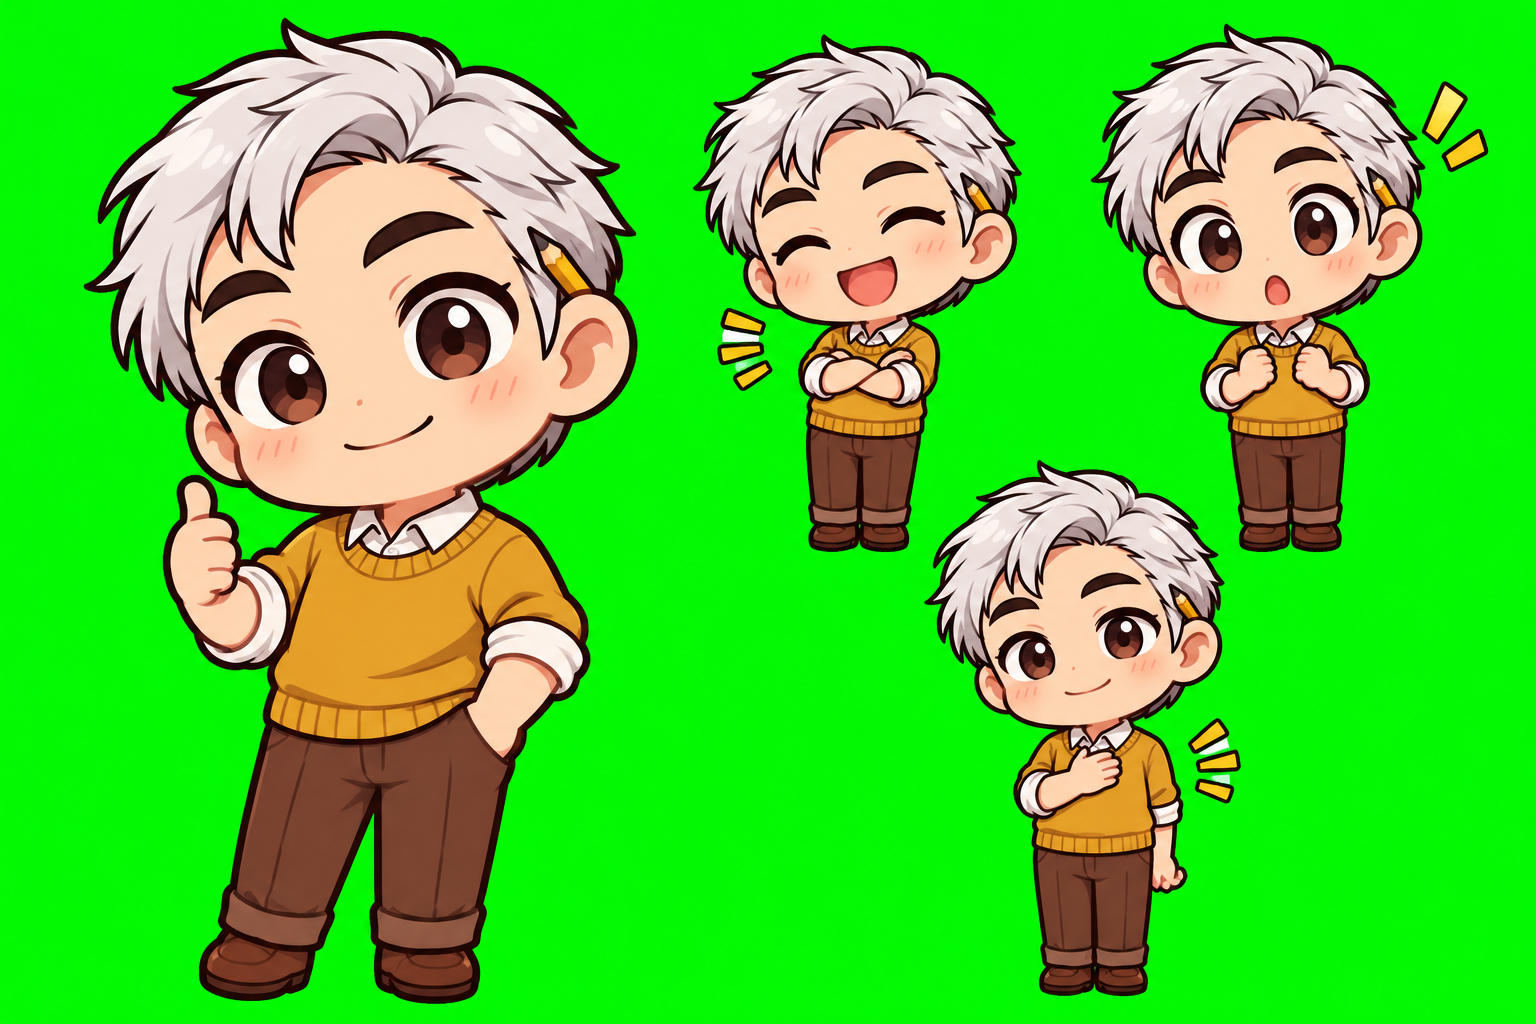
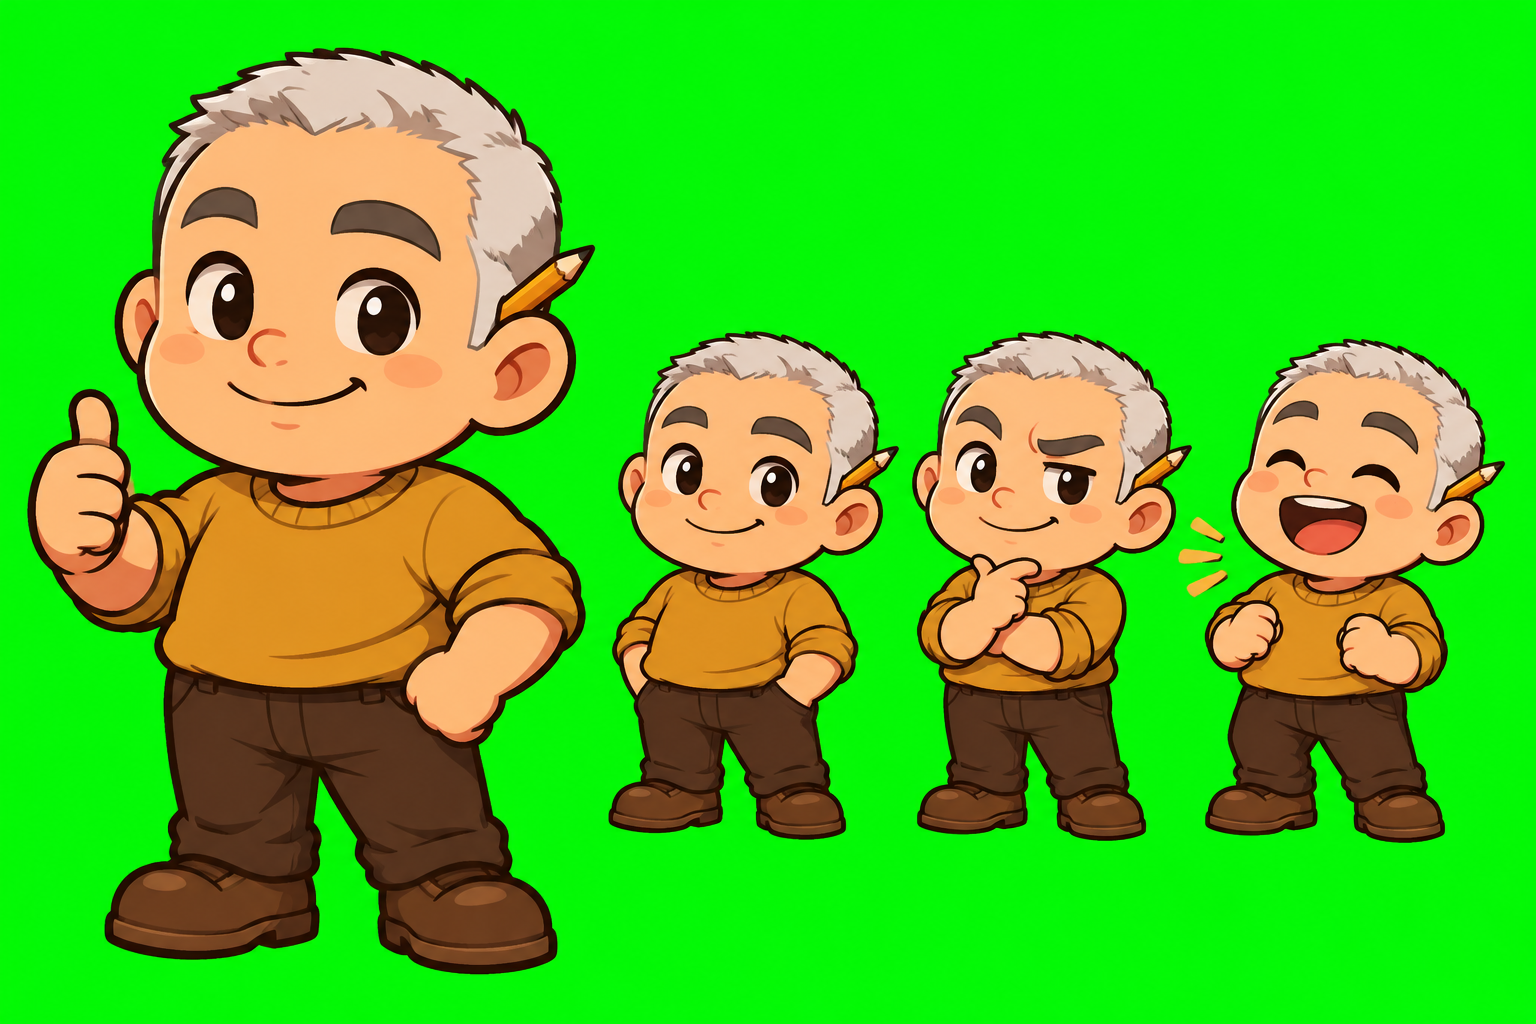
ゲンさんの設定画を、確定済みの gen_v2 にする
前の commit で描き直したゲンさんの設定画は、確定済みの絵（materials/raw/character_candidates/gen_v2.png）があるのに探さずに描いたものだったので消し、gen_v2 を materials/ref/gen.png に写して正にした。

Refs #6

diff --git a/short_movie/characters.md b/short_movie/characters.md
@@ -142,7 +142,7 @@ dark charcoal pants (#3A3D42), headphones around the neck, always holding a yell
 | 丸いロボットの元の絵 | `short_movie/materials/ref/robot.png` | 色違いの元。動画には、この色のままでは出さない |
 | 開発者 | `short_movie/materials/ref/developer.png` | 確定（2026-10-28） |
 | アカネ | `short_movie/materials/ref/akane.png` | 確定（2026-10-28） |
-| ゲンさん | `short_movie/materials/ref/gen.png` | 描いた（2026-11-06。自分の分だけ上書きの回に出るため）。依頼書は [short_movie/materials/prompts/gen_sheet.md](materials/prompts/gen_sheet.md)。顔は `short_movie/materials/ep/wait-quota/icon_gen.png` に合わせた。人間の確認待ち |
+| ゲンさん | `short_movie/materials/ref/gen.png` | 確定（`short_movie/materials/raw/character_candidates/gen_v2.png` の写し。issue #6 のコメントで人間が確定済みと示した） |
 | 知らない人 | `short_movie/materials/ref/stranger.png` | 確定（2026-10-28） |
 | 使わない絵 | `short_movie/materials/ref/foreman.png`・`short_movie/materials/ref/robot_blue.png`・`short_movie/materials/ref/robot_purple.png` | 役がなくなった |
 
